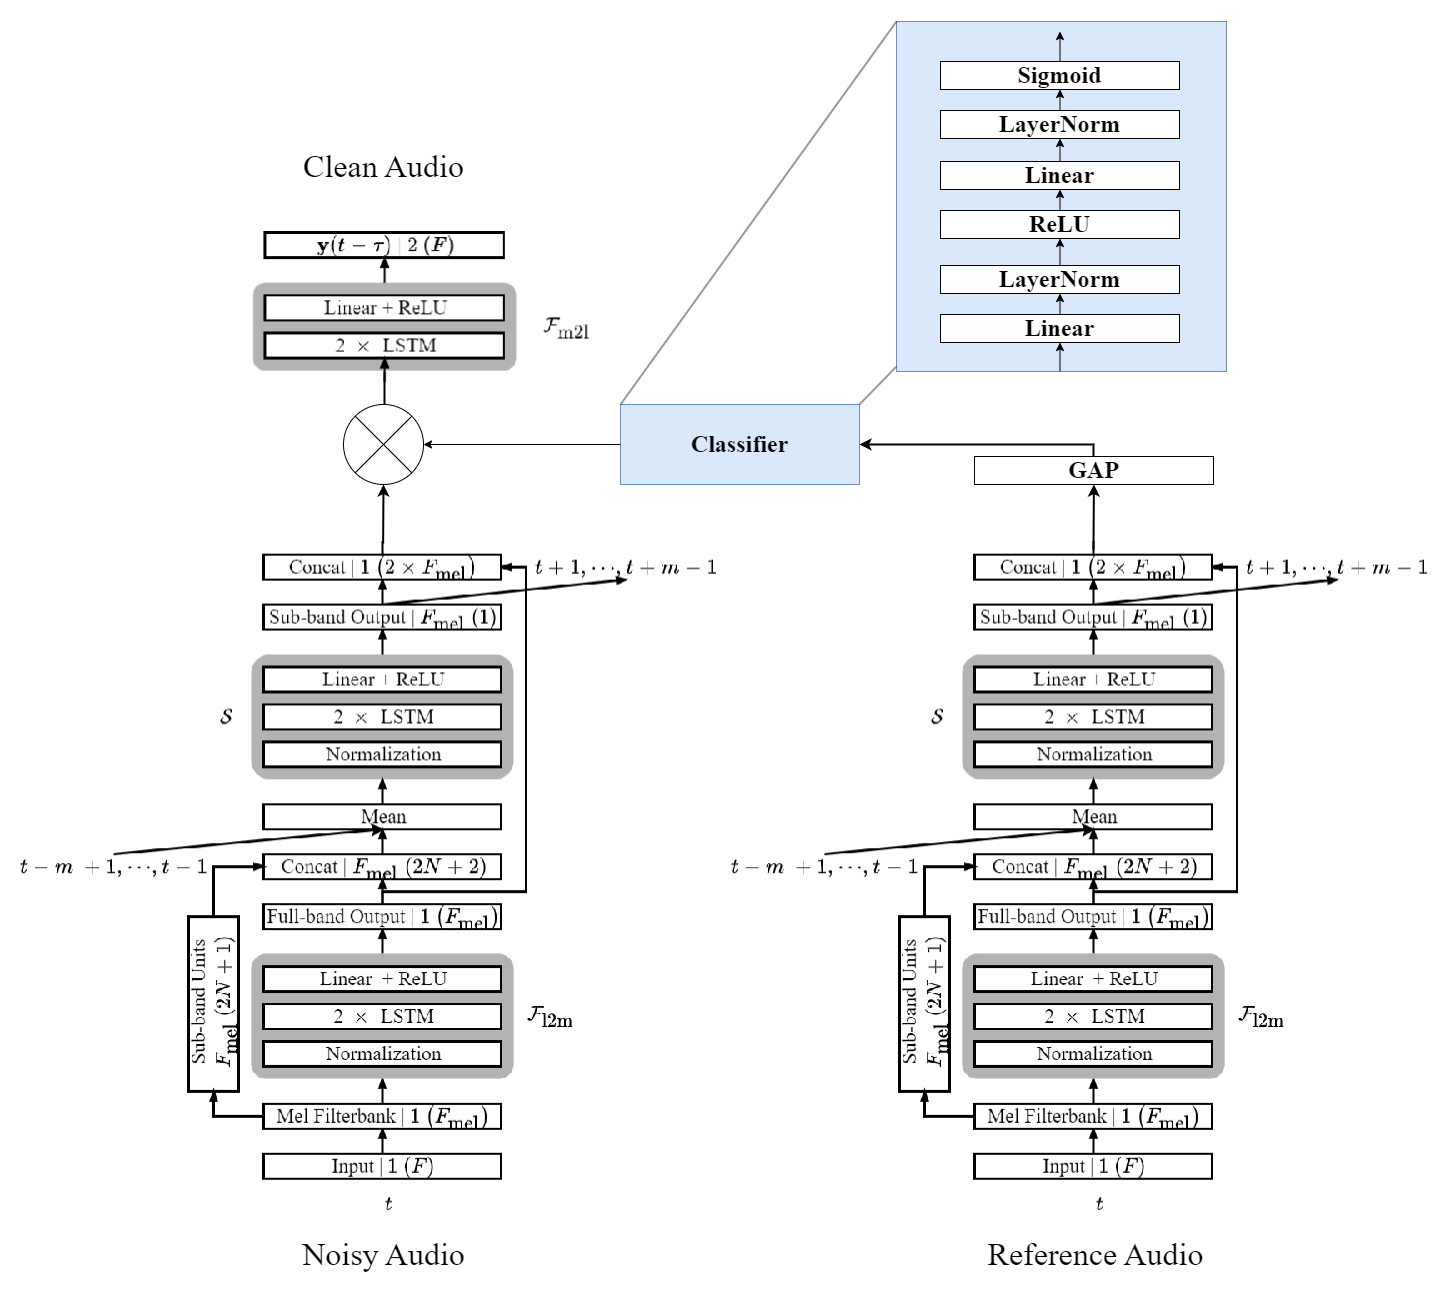
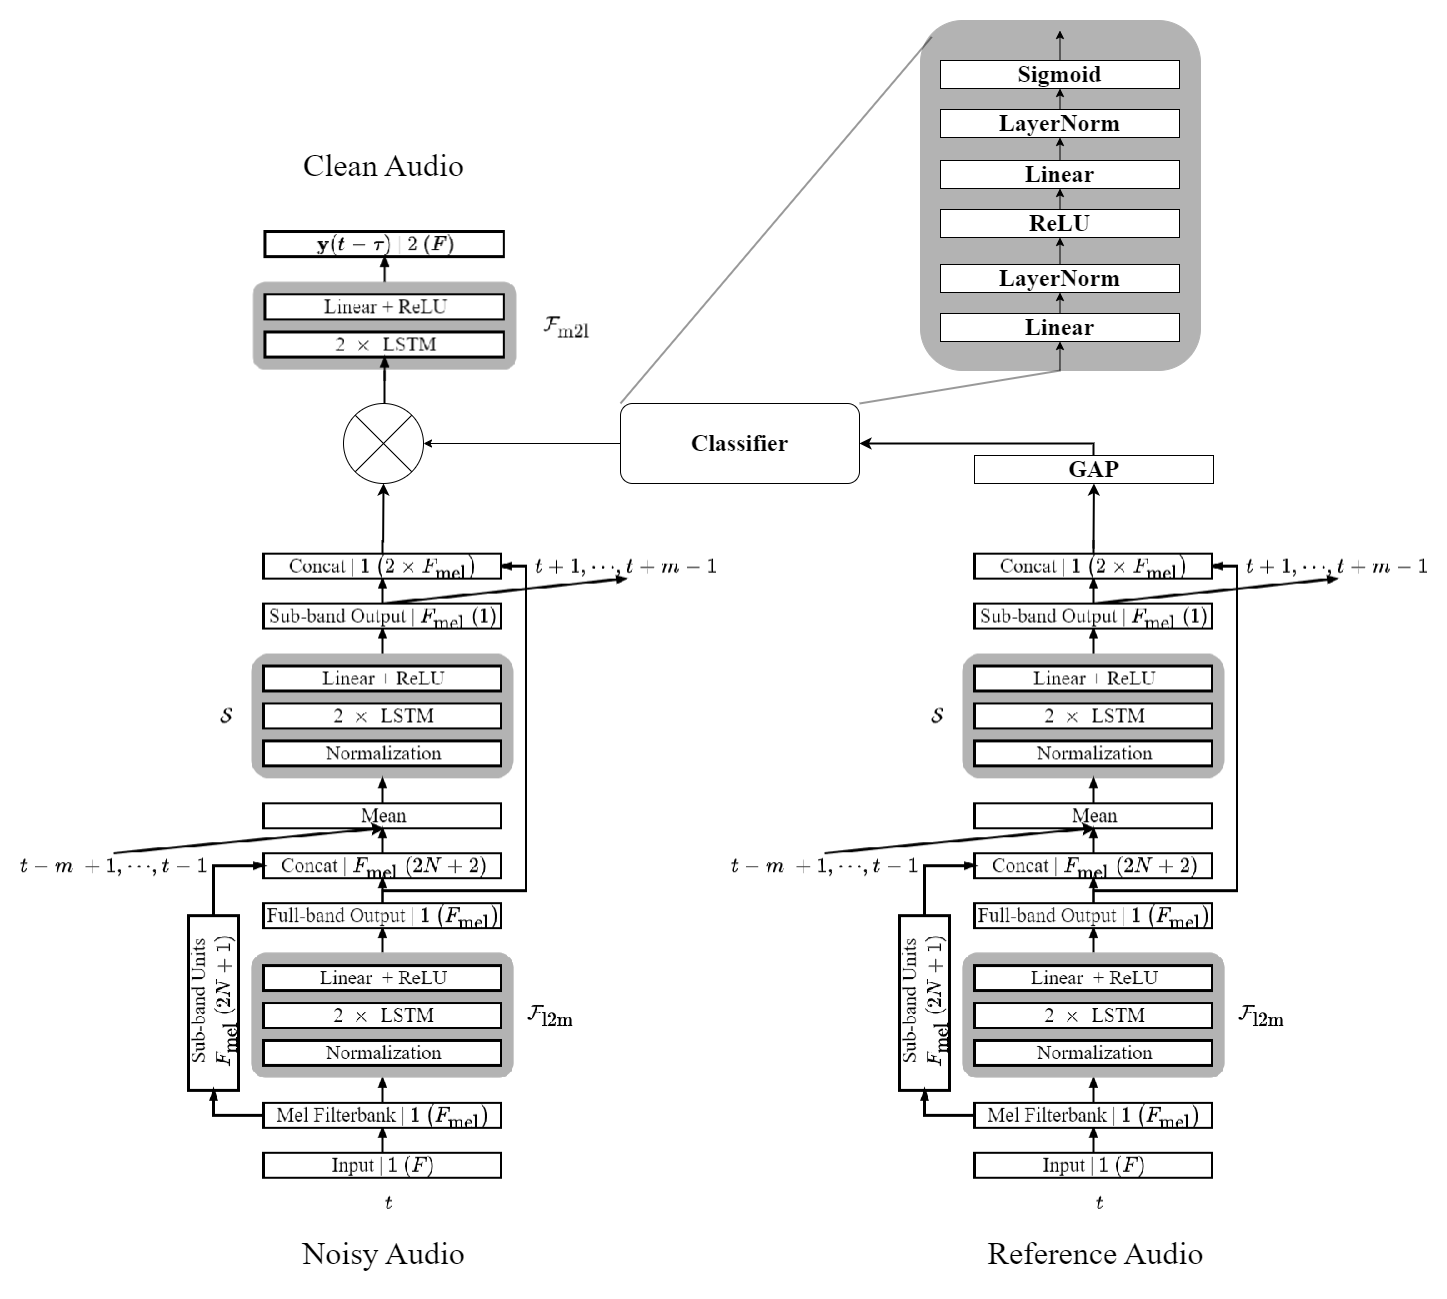
selected pdenoiser

diff --git a/document/chapters/models/progress/model-selection.tex b/document/chapters/models/progress/model-selection.tex
@@ -3,12 +3,12 @@
 To assess the performance of our models we compared the results of our models against the top 7 models submitted to the DNS2023 challenge and the baseline model provided by the challenge organizers.
 Table \ref{tab:models-dns2023-testset} shows the results of the models on the DNS2023 blind test set and their ranking among other models based on OVRL MOS.
 Despite the limited data that our models were trained on compared to the other models, our models achieved competitive results.
-The Personalized Fast FullSubNet model ranked in the $6^{th} place$. This result shows that our model and dataset are capable to compete with models trained on much larger datasets.
+The Personalized Fast FullSubNet model ranked in the $6^{th}$ place and PDenoiser got the $2^{nd}$ place. This result shows that our models and cleaner dataset are capable to compete with models trained on much larger datasets.
 
 For further evaluation, we compared the results of our models on our collected test set at an SNR of 6. The results are shown in table \ref{tab:models-our-testset}.
-The Personalized Fast FullSubNet model achieved the highest DNSMOS SIG, PESQ nb, PESQ wb and STOI scores among the models. PDenoiser ECAPA-TDNN achieved the highest DNSMOS BAK and OVRL score.
+The Personalized Denoiser model outperformerd the Personalized Fast FullSubNet model in all the metrics.
 
-Based on these results we decided to select the Personalized Fast FullSubNet model as our final model for the project. The model will be integrated into the application for a lightweight, personalized and real-time noise suppression solution.
+Based on these results we decided to select the Personalized Denoiser model as our final model for the project. The model will be integrated into the application for a lightweight, personalized and real-time noise suppression solution.
 
 \begin{table}[]
     \centering
@@ -16,6 +16,7 @@ Based on these results we decided to select the Personalized Fast FullSubNet mod
     \hline
     Model                                       & \begin{tabular}[c]{@{}c@{}}SIG\\ MOS\end{tabular} & \begin{tabular}[c]{@{}c@{}}BAK\\ MOS\end{tabular} & \begin{tabular}[c]{@{}c@{}}OVRL\\ MOS\end{tabular}    \\ \hline
     Team36\_UnbeatableTencent\_p\_Pref1         & 3.64                                              & 2.92                                              & 2.72                                                  \\
+    \textbf{PDenoiser}                          & \textbf{3.748}                                    & \textbf{2.824}                                    & \textbf{2.711}                                         \\
     Team14\_TencentASSP\_p\_Pref1               & 3.60                                              & 2.84                                              & 2.65                                                  \\
     Team13\_TSpeech-Al\_Pref1                   & 3.64                                              & 2.88                                              & 2.66                                                  \\
     Team18\_TencentVPPaaS\_Pref1                & 3.61                                              & 2.86                                              & 2.64                                                  \\
@@ -24,8 +25,6 @@ Based on these results we decided to select the Personalized Fast FullSubNet mod
     Team9\_NJUAALab2\_nonp\_Pref1               & 3.54                                              & 2.77                                              & 2.54                                                  \\
     Team40\_SZAudio\_p\_Pref1                   & 3.53                                              & 2.58                                              & 2.39                                                  \\
     Baseline\_p                                 & 3.22                                              & 2.68                                              & 2.38                                                  \\
-    \textbf{PDenoiser ECAPA-TDNN}               & \textbf{2.85}                                     & \textbf{3.47}                                     & \textbf{2.12}                                         \\
-    \textbf{PDenoiser TitaNet}                  & \textbf{2.55}                                     & \textbf{3.68}                                     & \textbf{1.99}                                         \\
     Noisy                                       & 3.83                                              & 1.22                                              & 1.24                                                  \\ \hline
     \end{tabular}
     \caption{Personalized P.835 MOS results on DNS2023 blind test set. The models started by \textbf{Team} are the top 7 models submitted to the DNS2023 challenge. The \textbf{Baseline} model is the baseline model provided by the challenge organizers. The \textbf{Noisy} row represents the noisy audio clips.}
@@ -37,9 +36,9 @@ Based on these results we decided to select the Personalized Fast FullSubNet mod
     \begin{tabular}{l|cccccc}
     \hline
     Model                        & \begin{tabular}[c]{@{}c@{}}DNSMOS\\ SIG\end{tabular} & \begin{tabular}[c]{@{}c@{}}DNSMOS\\ BAK\end{tabular} & \begin{tabular}[c]{@{}c@{}}DNSMOS\\ OVRL\end{tabular} & \begin{tabular}[c]{@{}c@{}}PESQ\\ nb\end{tabular} & \begin{tabular}[c]{@{}c@{}}PESQ\\ wb\end{tabular} & STOI           \\ \hline
-    Personalized Fast FullSubNet & \textbf{3.362}                                       & 2.252                                                & 2.263                                                 & \textbf{2.075}                                    & \textbf{1.654}                                    & \textbf{0.866} \\
-    PDenoiser ECAPA-TDNN         & 2.858                                                & \textbf{3.318}                                       & \textbf{2.420}                                        & 1.616                                             & 1.446                                             & 0.697          \\
-    PDenoiser TitaNet            & 2.138                                                & 3.279                                                & 1.869                                                 & 1.325                                             & 1.231                                             & 0.538          \\ \hline
+    Personalized Fast FullSubNet & 3.362                                       & 2.252                                                & 2.263                                                 & 2.075                                             & 1.654                                    & 0.866 \\
+    PDenoiser                    & \textbf{3.748}                              & \textbf{2.824}                                       & \textbf{2.711}                                        & \textbf{2.431}                                     & \textbf{1.998}                                    & \textbf{0.913}          \\ \hline
+    
     \end{tabular}
     \caption{Results of trained models on our collected test set at an SNR of 6.}
     \label{tab:models-our-testset}

diff --git a/document/chapters/abstract.tex b/document/chapters/abstract.tex
@@ -8,4 +8,4 @@ In this work, we explore various models and architectures in SE. We propose two 
 
 We also introduce a novel Arabic dataset specifically designed for personalized speech enhancement, which was meticulously collected independently. This dataset comprises 30 speakers, with a demographic distribution of 73\% male and 27\% female participants. The training-validation set includes 30,000 audio clips amounting to a total of 83 hours of recorded speech, while the test set encompasses 1,200 audio clips totaling 3.3 hours.
 
-Finally, we are pleased to introduce a real-time desktop application that seamlessly integrates trained models. This application features a user-friendly graphical interface (GUI) for effortless operation and supports on-device real-time audio processing. It incorporates optimizations for streaming procedures, including adjustable frame size and multi-threading. Impressively, it achieves a low real-time factor (RTF) of 0.21 and utilizes a mere 4\% of the CPU.
+Finally, we are pleased to introduce a real-time desktop application that seamlessly integrates trained models. This application features a user-friendly graphical interface (GUI) for effortless operation and supports on-device real-time audio processing. It incorporates optimizations for streaming procedures, including adjustable frame size and multi-threading. Impressively, it achieves a low real-time factor (RTF) of 0.21.

diff --git a/document/chapters/application/streaming.tex b/document/chapters/application/streaming.tex
@@ -21,4 +21,4 @@ This allows the streaming module to keep up with the real-time audio input and r
 $$ \text{latency} = \text{frame length} + \text{processing time} $$
 This will result in the lowest latency possible, almost the same as processing 1 frame at a time. However, it will require more processing power.
 
-In our experiments, we set the number of frames $n$ to $2$ and the number of threads to $2$. This configuration resulted in a low RTF of $0.21$, which is excellent for real-time applications with low CPU utilization of $4\%$. This experiment was conducted on a laptop with a CPU AMD Ryzen 9 5900HX. We can further reduce the latency and RTF by using GPU acceleration.
+In our experiments, we set the number of frames $n$ to $2$ and the number of threads to $2$. This configuration resulted in a low RTF of $0.21$, which is excellent for real-time applications with low CPU utilization of $20\%$. This experiment was conducted on a laptop with a CPU AMD Ryzen 9 5900HX. We can further reduce the latency and RTF by using GPU acceleration.

diff --git a/document/chapters/models/models.tex b/document/chapters/models/models.tex
@@ -10,10 +10,11 @@ This chapter discusses the progress and expereiments of choosing the model.
 % \input{chapters/models/progress/dataset-preparation.tex}
 \input{chapters/models/progress/experiments/experiments.tex}
 
+\input{chapters/models/progress/experiments/pffsn.tex}
+
 \input{chapters/models/progress/experiments/pdenoiser.tex}
 
 
-\input{chapters/models/progress/experiments/pffsn.tex}
 
 
 \input{chapters/models/progress/model-selection.tex}
